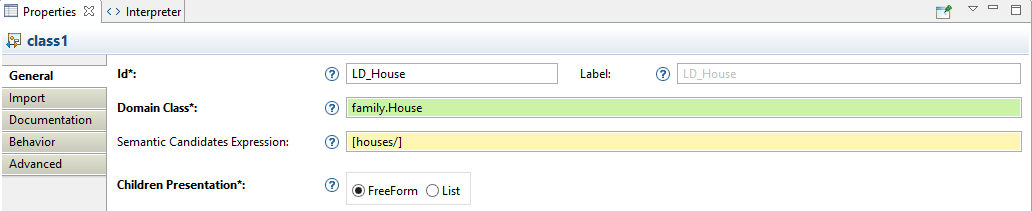
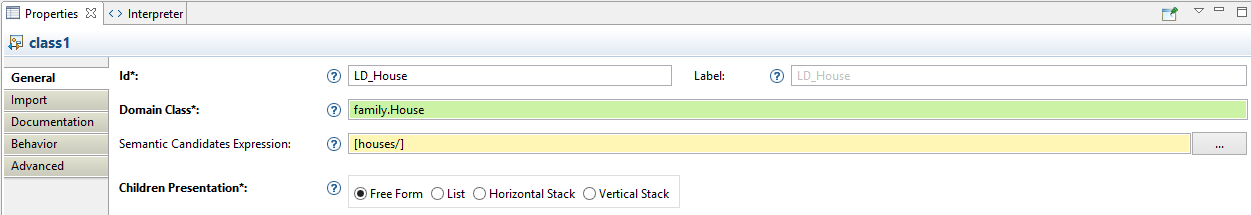
[436359] Enable compartiments in VSM editor
Enable the compartiments in the VSM editor. 
Disabled stacks container children preentation option in property
section when the element is a region: a ContainerMapping cannot be a
Region and a RegionContainer.

Bug: 436359

Changed region(s): [[0.0, 0.0, 1.0, 1.0], [0.2481, 0.455, 0.4031, 0.5687], [0.4651, 0.7962, 0.5271, 0.8246]]

diff --git a/plugins/org.eclipse.sirius.doc/doc/Release Notes.html b/plugins/org.eclipse.sirius.doc/doc/Release Notes.html
@@ -60,6 +60,10 @@
 			<li>Property sections for interpreted expressions (yellow background) now have a button next to the text field to open a dialog with a bigger text area (also providing auto-completion).</li>
 			<li>The hide label per default capability has been added to the container styles.</li>
 			<li>Property sections for image paths now have a button next to the text field to open a dialog browsing for images.</li>
+			<li>The children presentation property of a ContainerMapping has two new values 
+				<code>Vertical Stack</code> and 
+				<code>Horizontal Stack</code>. They indicates that a container will present its children containers as a vertical/horizontal stack of compartments. These two stack values are experimental.
+			</li>
 		</ul>
 		<h3 id="APIChanges">API Changes</h3>
 		<h4 id="Changesinorg.eclipse.sirius">Changes in 
@@ -622,7 +626,7 @@
 				<code>org.eclipse.sirius.diagram.ui.business.api.view.ValidateAction.getDSemanticDecorator()</code> for an example. 
 			</li>
 		</ul>
-		<h4 id="Changesinorg.eclipse.sirius.synchronizer">Changes in 
+		<h4 id="Changesinorg.eclipse.sirius.synchronizer2">Changes in 
 			<code>org.eclipse.sirius.synchronizer</code>
 		</h4>
 		<ul>
@@ -1068,7 +1072,7 @@
 				<code>DTreeItem</code>. On expansion a refresh of children is done.
 			</li>
 		</ul>
-		<h4 id="Changesinorg.eclipse.sirius.synchronizer2">Changes in 
+		<h4 id="Changesinorg.eclipse.sirius.synchronizer3">Changes in 
 			<code>org.eclipse.sirius.synchronizer</code>
 		</h4>
 		<ul>
@@ -1748,7 +1752,7 @@
 				<code>com.google.common.base.Function</code>, but keeps the same API otherwise.
 			</li>
 		</ul>
-		<h4 id="Changesinorg.eclipse.sirius.synchronizer3">Changes in 
+		<h4 id="Changesinorg.eclipse.sirius.synchronizer4">Changes in 
 			<code>org.eclipse.sirius.synchronizer</code>
 		</h4>
 		<ul>

diff --git a/plugins/org.eclipse.sirius.doc/doc/specifier/general/Specifying_Viewpoints.html b/plugins/org.eclipse.sirius.doc/doc/specifier/general/Specifying_Viewpoints.html
@@ -291,7 +291,7 @@
 			<br/>	<li> 
 			<b>Semantic Candidates Expression</b> field: Restrict the list of elements to consider before creating the graphical elements. If it is not set, then all semantic models in session will be browsed and any element of the given type validating the precondition expression will cause the creation of a graphical element. If you set this attribute then only the elements returned by the expression evaluation will be considered.</li>
 			<br/>	<li> 
-			<b>Children Presentation</b> field: Tell whether the container will display it&#8217;s child as list elements or as shapes.</li>
+			<b>Children Presentation</b> field: Tell whether the container will display its children as list elements, as shapes, or as a vertical/horizontal stack of compartments. The two stack values are experimental.</li>
 			<br/></ul>
 			<br/></ul>
 			<br/></em>

diff --git a/plugins/org.eclipse.sirius.editor.diagram/src/org/eclipse/sirius/diagram/editor/properties/section/description/containermapping/ContainerMappingChildrenPresentationPropertySectionSpec.java b/plugins/org.eclipse.sirius.editor.diagram/src/org/eclipse/sirius/diagram/editor/properties/section/description/containermapping/ContainerMappingChildrenPresentationPropertySectionSpec.java
@@ -1,5 +1,5 @@
 /*******************************************************************************
- * Copyright (c) 2013 THALES GLOBAL SERVICES.
+ * Copyright (c) 2013, 2015 THALES GLOBAL SERVICES and others.
  * All rights reserved. This program and the accompanying materials
  * are made available under the terms of the Eclipse Public License v1.0
  * which accompanies this distribution, and is available at
@@ -10,13 +10,11 @@
  *******************************************************************************/
 package org.eclipse.sirius.diagram.editor.properties.section.description.containermapping;
 
-import java.util.Collections;
-import java.util.List;
-
 import org.eclipse.sirius.diagram.ContainerLayout;
+import org.eclipse.sirius.diagram.business.internal.query.ContainerMappingExperimentalQuery;
+import org.eclipse.sirius.diagram.description.ContainerMapping;
 import org.eclipse.sirius.diagram.editor.properties.sections.description.containermapping.ContainerMappingChildrenPresentationPropertySection;
-
-import com.google.common.collect.Lists;
+import org.eclipse.swt.widgets.Button;
 
 /**
  * A section for the childrenPresentation property of a ContainerMapping object.
@@ -26,12 +24,36 @@ import com.google.common.collect.Lists;
  */
 public class ContainerMappingChildrenPresentationPropertySectionSpec extends ContainerMappingChildrenPresentationPropertySection {
 
-    private final List<?> values = Collections.unmodifiableList(Lists.newArrayList(ContainerLayout.FREE_FORM, ContainerLayout.LIST));
+    @Override
+    protected void makeWrittable() {
+        super.makeWrittable();
 
-    /**
-     * @see org.eclipse.sirius.editor.properties.sections.AbstractRadioButtonPropertySection#getEnumerationFeatureValues()
-     */
-    protected List<?> getChoiceOfValues() {
-        return values;
+        if (button != null && eObject instanceof ContainerMapping) {
+            boolean stackButtonEnabled = shouldEnableCompartiments((ContainerMapping) eObject);
+
+            String hStackButtonText = getText(ContainerLayout.HORIZONTAL_STACK);
+            String vStackButtonText = getText(ContainerLayout.VERTICAL_STACK);
+            for (Button b : button) {
+                if (hStackButtonText.equals(b.getText()) || vStackButtonText.equals(b.getText())) {
+                    b.setEnabled(stackButtonEnabled);
+                }
+            }
+        }
+    }
+
+    private boolean shouldEnableCompartiments(ContainerMapping containerMapping) {
+        ContainerMappingExperimentalQuery query = new ContainerMappingExperimentalQuery(containerMapping);
+        
+        boolean enableCompartiments = !query.isRegion();
+        if (enableCompartiments) {
+            for (ContainerMapping subContainer : containerMapping.getAllContainerMappings()) {
+                ContainerMappingExperimentalQuery subQuery = new ContainerMappingExperimentalQuery(subContainer);
+                enableCompartiments = enableCompartiments && !subQuery.isRegionContainer();
+            }
+        }
+        if (enableCompartiments) {
+            enableCompartiments = enableCompartiments && containerMapping.getAllNodeMappings().isEmpty();
+        }
+        return enableCompartiments;
     }
 }
